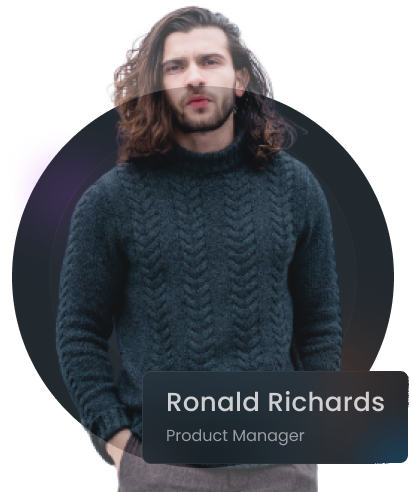
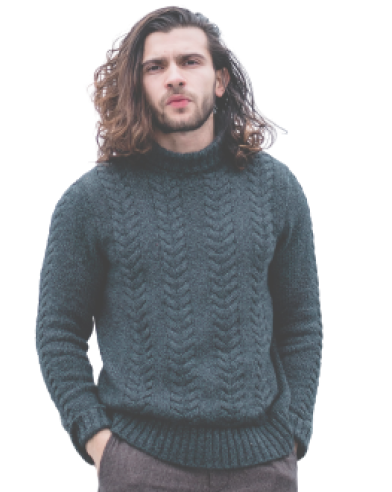
6

diff --git a/style/style.css b/style/style.css
@@ -75,7 +75,8 @@ body {
     color: var(--color-grey);
 }
 
-.header-logo {
+.header-logo{
+
     font-family: Poppins;
     font-size: 22px;
     font-weight: 600;
@@ -98,7 +99,7 @@ body {
 
 /* section-hero */
 .section-hero {
-    margin-top: 104px;
+    padding-top: 104px;
 }
 
 .section-hero-title {
@@ -108,7 +109,7 @@ body {
     line-height: 70px;
     letter-spacing: 0em;
     text-align: left;
-    margin-bottom: 30px;
+    padding-bottom: 30px;
 }
 
 .section-hero-input {
@@ -154,7 +155,7 @@ body {
 }
 
 .section-hero-list {
-    margin-top: 110px;
+    padding-top: 110px;
     display: flex;
     gap: 20px;
     align-items: center;
@@ -173,7 +174,7 @@ body {
 
 /* popular-list */
 .section-popular-tools {
-    margin-top: 200px;
+    padding-top: 200px;
 }
 
 .section-popular-tools-list-item-list-wrap-list-item {
@@ -192,7 +193,7 @@ body {
     flex-direction: column;
     width: 1224px;
     height: 618px;
-
+    
 }
 
 .section-popular-tools-list-item-wrap {
@@ -329,11 +330,10 @@ body {
 }
 
 .brands {
-    width: 1224px;
-    height: 253px;
+
     border-radius: 25px;
     border: 2px;
-    margin-bottom: 200px;
+
     background-color: #2C353D;
 }
 
@@ -352,6 +352,7 @@ body {
     display: flex;
     gap: 107px;
     padding-top: 55px;
+    padding-bottom: 56px;
     justify-content: center;
 
 }
@@ -361,7 +362,7 @@ body {
     width: 1224px;
     height: 638px;
     display: flex;
-
+    padding-top: 200px;
 }
 
 .newcomer-tools-section-title {
@@ -507,13 +508,62 @@ body {
     justify-content: center;
     align-items: center;
     gap: 57px;
-    margin-bottom: 357px;
+    padding-bottom: 357px;
+    padding-top: 200px;
 }
 
 .section-biography-wrap {
     width: 393px;
     height: 180px;
 
+
+}
+
+.section-biography-pre-decription-wrap {
+    width: 265px;
+    height: 91px;
+
+    border-radius: 8px;
+    border: 1px;
+
+}
+
+.section-biography-wrap-title {
+    font-family: Poppins;
+    font-size: 26px;
+    font-weight: 500;
+    line-height: 39px;
+    letter-spacing: 0.015em;
+    text-align: left;
+    margin-bottom: 2px;
+}
+
+.section-biography-pre-decription-wrap {
+    background-image: url(../img/19.png);
+    width: 399px;
+    height: 492px;
+    border: 1px;
+    display: flex;
+    align-items: flex-end;
+    justify-content: flex-end;
+    padding-bottom: 20px;
+}
+
+.section-biography-wrap-decription {
+    width: 265px;
+    height: 91px;
+    border-radius: 8px;
+    border: 1px;
+}
+
+.section-biography-decription-wrap {
+    font-family: Poppins;
+    font-size: 16px;
+    font-weight: 400;
+    line-height: 24px;
+    letter-spacing: 0em;
+    text-align: left;
+    color: #FFFDFD8C;
 
 }
 
@@ -559,16 +609,7 @@ body {
     line-height: 21px;
     letter-spacing: 0em;
     text-align: left;
-}
-
-.section-join-us-button {
-    font-family: Poppins;
-    font-size: 16px;
-    font-weight: 600;
-    line-height: 24px;
-    letter-spacing: 0em;
-    text-align: left;
-
+    padding-left: 24px;
 }
 
 .section-join-us-form {
@@ -596,6 +637,12 @@ body {
     color: #FFFFFFE5;
     background-color: #FF6E30;
     text-align: center;
+    font-family: Poppins;
+    font-size: 16px;
+    font-weight: 600;
+    line-height: 24px;
+    letter-spacing: 0em;
+    text-align: center;
 
 }
 
@@ -606,10 +653,12 @@ body {
     padding-bottom: 100px;
 
 }
-.footer-wrap{
+
+.footer-wrap {
     display: flex;
     justify-content: space-between;
 }
+
 .footer-decription-list {
     width: 260px;
     height: 183px;
@@ -705,9 +754,11 @@ body {
 
 
 }
-.footer-list-decription{
+
+.footer-list-decription {
     color: #a8a7a7;
 }
+
 /* span */
 span {
     color: #FF6E30;

diff --git a/index.html b/index.html
@@ -23,7 +23,9 @@
     <header class="header">
         <div class="container">
             <div class="header-wrap">
-                <a href="#" class="header-logo">antools.</a>
+                <a href="#" class="header-logo">
+                    <h3 class="header-logo-text">antools.</h3>
+                </a>
                 <nav class="header-navigation">
                     <ul class="header-list">
                         <li class="header-list-item"><a href="#" class="header-list-link">Home</a></li>
@@ -324,7 +326,12 @@
                 </ul>
             </section>
             <section class="section-biography">
-                <img src="./img/19.png" alt="упс" class="section-biography-img">
+                <div class="section-biography-pre-decription-wrap">
+                    <div class="section-biography-wrap-decription">
+                        <h4 class="section-biography-wrap-title">Ronald Richards</h4>
+                        <p class="section-biography-decription-wrap">Product Manager</p>
+                    </div>
+                </div>
                 <div class="section-biography-wrap">
                     <p class="section-biography-decription">Incididunt cillum do sint sint enim ullamco id deserunt
                         mollit
